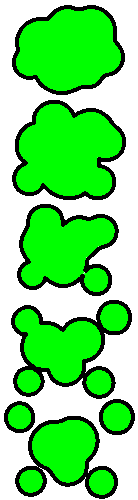
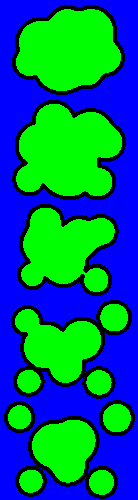
More test with TMU and colorkey

diff --git a/attic/kiniou/sdl_anim/src/main.c b/attic/kiniou/sdl_anim/src/main.c
@@ -9,7 +9,7 @@
 #endif
 static volatile int tmu_wait;
 
-static int tmu_complete(struct tmu_td *td)
+static void tmu_complete(struct tmu_td *td)
 {
     tmu_wait = 1;
 }
@@ -24,7 +24,9 @@ int main() {
     irq_setmask(0);
     irq_enable(1);
     uart_async_init();
+#endif
     banner();
+#ifndef __SDLSDK__
     brd_init();
     time_init();
     mem_init();
@@ -36,9 +38,18 @@ int main() {
     pfpu_init();
 #endif
 
-    static struct tmu_td tmu_task;
+    static struct tmu_td tmu_task, tmu_clearscreen;
     static struct tmu_vertex src_vertices[TMU_MESH_MAXSIZE][TMU_MESH_MAXSIZE];
     static struct tmu_vertex dst_vertices[TMU_MESH_MAXSIZE][TMU_MESH_MAXSIZE];
+
+    static short int black = 0xF800;
+
+
+    static struct tmu_vertex src_clr_vertices[TMU_MESH_MAXSIZE][TMU_MESH_MAXSIZE];
+    static struct tmu_vertex dst_clr_vertices[TMU_MESH_MAXSIZE][TMU_MESH_MAXSIZE];
+
+    
+
 
     int quit = 0;
     unsigned int x , y ;
@@ -47,8 +58,13 @@ int main() {
     //Initialization
     sprites_init();
 
-    sprites_load(badclouds_raw,badclouds_raw_len,0xFFFF,138,100,4);
-    debug_sprite(&sprite_data[0]);
+    sprites_load(badclouds_raw,badclouds_raw_len,0x001F,138,100,0);
+    sprites_load(badclouds_raw,badclouds_raw_len,0x001F,138,100,1);
+    sprites_load(badclouds_raw,badclouds_raw_len,0x001F,138,100,2);
+    sprites_load(badclouds_raw,badclouds_raw_len,0x001F,138,100,3);
+    sprites_load(badclouds_raw,badclouds_raw_len,0x001F,138,100,4);
+    sprites_load(badfactory_raw,badfactory_raw_len,0x001F,138,100,4);
+//    debug_sprite(&sprite_data[0]);
 
 #define CHROMAKEY  0x001f
 #define HMESHLAST  1
@@ -59,16 +75,50 @@ int main() {
         for ( y = 0; y <= VMESHLAST; y++) {
             src_vertices[x][y].x = x * 138 / HMESHLAST; 
             src_vertices[x][y].y = y * 100 / VMESHLAST;
-            dst_vertices[x][y].x = x * 138 / HMESHLAST + 100; 
-            dst_vertices[x][y].y = y * 100 / VMESHLAST + 100;
+            dst_vertices[x][y].x = x * 69 / HMESHLAST + 100; 
+            dst_vertices[x][y].y = y * 50 / VMESHLAST + 100;
         }
     }
 
-    tmu_task.flags = 0;
+    src_clr_vertices[0][0].x = 0;
+    src_clr_vertices[0][0].y = 0;
+    src_clr_vertices[1][0].x = 1;
+    src_clr_vertices[1][0].y = 0;
+    src_clr_vertices[0][1].x = 0;
+    src_clr_vertices[0][1].y = 1;
+    src_clr_vertices[1][1].x = 1;
+    src_clr_vertices[1][1].y = 1;
+
+
+    dst_clr_vertices[0][0].x = 0;
+    dst_clr_vertices[0][0].y = 0;
+    dst_clr_vertices[1][0].x = 640;
+    dst_clr_vertices[1][0].y = 0;
+    dst_clr_vertices[0][1].x = 0;
+    dst_clr_vertices[0][1].y = 480;
+    dst_clr_vertices[1][1].x = 640;
+    dst_clr_vertices[1][1].y = 480;
+
+    tmu_clearscreen.flags = 0;
+    tmu_clearscreen.hmeshlast = 1;
+    tmu_clearscreen.vmeshlast = 1;
+    tmu_clearscreen.brightness = 60;
+    tmu_clearscreen.chromakey = 0;
+    tmu_clearscreen.srcmesh = &src_clr_vertices[0][0];
+    tmu_clearscreen.srchres = 1;
+    tmu_clearscreen.srcvres = 1;
+    tmu_clearscreen.dstmesh = &dst_clr_vertices[0][0];
+    tmu_clearscreen.dsthres = vga_hres;
+    tmu_clearscreen.dstvres = vga_vres;
+    tmu_clearscreen.profile = 0;
+    tmu_clearscreen.callback = tmu_complete;
+    tmu_clearscreen.user = NULL;
+
+    tmu_task.flags = TMU_CTL_CHROMAKEY;
     tmu_task.hmeshlast = HMESHLAST;
     tmu_task.vmeshlast = VMESHLAST;
     tmu_task.brightness = 62;
-    tmu_task.chromakey = 0;
+    tmu_task.chromakey = 0x001f;
     tmu_task.srcmesh = &src_vertices[0][0];
     tmu_task.srchres = 138;
     tmu_task.srcvres = 100;
@@ -78,31 +128,39 @@ int main() {
     tmu_task.profile = 0;
     tmu_task.callback = tmu_complete;
     tmu_task.user = NULL;
-
-
-
+    x = 0;
 
     while(quit == 0)
     {
-        tmu_task.srcfbuf = sprite_data[0].data;
+        tmu_task.srcfbuf = sprite_data[x/20].data;
         tmu_task.dstfbuf = vga_backbuffer;
+        tmu_clearscreen.srcfbuf = &black;
+        //tmu_clearscreen.srcfbuf = vga_frontbuffer;
+        tmu_clearscreen.dstfbuf = vga_backbuffer;
         quit = scan_keys();
-        x = 50;
+        x += 1;
+    //    black = x * ;
+        if (x == 100) x = 0;
+
+        
 
 //        for (y=0;y<sprite_data[0].size_vres;y++)
 //        {
 //            vga_position = &(vga_frontbuffer[x + y * vga_hres]);
 //            memcpy(vga_position, &sprite_data[0].data[y * sprite_data[0].size_hres ] , sprite_data[0].size_hres * sizeof(unsigned short int) );
 //        }
+        tmu_wait = 0;
+        tmu_submit_task(&tmu_clearscreen);
+        while(!tmu_wait);
 
         tmu_wait = 0;
         tmu_submit_task(&tmu_task);
         while(!tmu_wait);
 
-        //flush_bridge_cache();
+        flush_bridge_cache();
 
         vga_swap_buffers();
-        //demo_sleep(100);
+        demo_sleep(100);
     }
 
     demo_quit();

diff --git a/attic/kiniou/sdl_anim/src/tmu_sdl.h b/attic/kiniou/sdl_anim/src/tmu_sdl.h
@@ -1,0 +1,65 @@
+/*
+ * Milkymist Democompo
+ * Copyright (C) 2007, 2008, 2009 Sebastien Bourdeauducq
+ * 
+ * This program is free software: you can redistribute it and/or modify
+ * it under the terms of the GNU General Public License as published by
+ * the Free Software Foundation, version 3 of the License.
+ * 
+ * This program is distributed in the hope that it will be useful,
+ * but WITHOUT ANY WARRANTY; without even the implied warranty of
+ * MERCHANTABILITY or FITNESS FOR A PARTICULAR PURPOSE.  See the
+ * GNU General Public License for more details.
+ * 
+ * You should have received a copy of the GNU General Public License
+ * along with this program.  If not, see <http://www.gnu.org/licenses/>.
+ */
+
+#ifndef __TMU_H
+#define __TMU_H
+
+#ifndef __SDLSDK__
+#include <hw/tmu.h>
+#else
+
+#define TMU_MESH_MAXSIZE 128
+#define  TMU_CTL_CHROMAKEY 0
+
+#endif
+
+
+struct tmu_vertex {
+    short int y;
+    short int x;
+} __attribute__((packed));
+
+
+struct tmu_td;
+
+typedef void (*tmu_callback)(struct tmu_td *);
+
+struct tmu_td {
+	unsigned int flags;
+	unsigned int hmeshlast;
+	unsigned int vmeshlast;
+	unsigned int brightness;
+	unsigned short chromakey;
+	struct tmu_vertex *srcmesh;
+	unsigned short *srcfbuf;
+	unsigned int srchres;
+	unsigned int srcvres;
+	struct tmu_vertex *dstmesh;
+	unsigned short *dstfbuf;
+	unsigned int dsthres;
+	unsigned int dstvres;
+
+	int profile; /* < prints profiling info after completion */
+	tmu_callback callback;
+	void *user; /* < for application use */
+};
+
+void tmu_init();
+void tmu_isr();
+int tmu_submit_task(struct tmu_td *td);
+
+#endif /* __TMU_H */

diff --git a/attic/kiniou/sdl_anim/src/vga_sdl.h b/attic/kiniou/sdl_anim/src/vga_sdl.h
@@ -1,0 +1,22 @@
+#ifndef __VGA_H
+#define __VGA_H
+
+//#ifdef __SDLSDK__
+//#include <SDL/SDL.h>
+//#include <GL/gl.h>
+//#include <GL/glu.h>
+//
+//#endif
+
+extern int vga_hres;
+extern int vga_vres;
+
+extern unsigned short int *vga_frontbuffer;
+extern unsigned short int *vga_backbuffer;
+extern unsigned short int *vga_lastbuffer;
+
+void vga_init();
+void vga_disable();
+void vga_swap_buffers();
+
+#endif //__VGA_H

diff --git a/attic/kiniou/sdl_anim/src/sdl_config.h b/attic/kiniou/sdl_anim/src/sdl_config.h
@@ -4,14 +4,15 @@
 #include <SDL/SDL.h>
 #include <stdio.h>
 
-#include "vga.h"
-#include "tmu.h"
+#include "vga_sdl.h"
+#include "tmu_sdl.h"
 
 #include "demo_1.h"
 #include "sprites.h"
 #include "transition.h"
 
 #include "badclouds.png.h"
+#include "badfactory.png.h"
 
 static SDL_Event event;
 

diff --git a/attic/kiniou/sdl_anim/src/sprites.c b/attic/kiniou/sdl_anim/src/sprites.c
@@ -26,6 +26,7 @@ void sprites_load(unsigned char * data, unsigned int data_len, unsigned int colo
     unsigned int nb_frames;
 
     len = grid_hres * grid_vres ;
+
     if (len > data_len)
     {
         printf("Error : grid size of image too big (%u > %u) \n", len , data_len);

diff --git a/attic/kiniou/sdl_anim/src/sprites.h b/attic/kiniou/sdl_anim/src/sprites.h
@@ -24,4 +24,5 @@ void sprites_load(unsigned char * data, unsigned int data_len, unsigned int colo
 void sprites_init();
 
 void debug_sprite(t_sprite * s);
+
 #endif //__SPRITES_H
